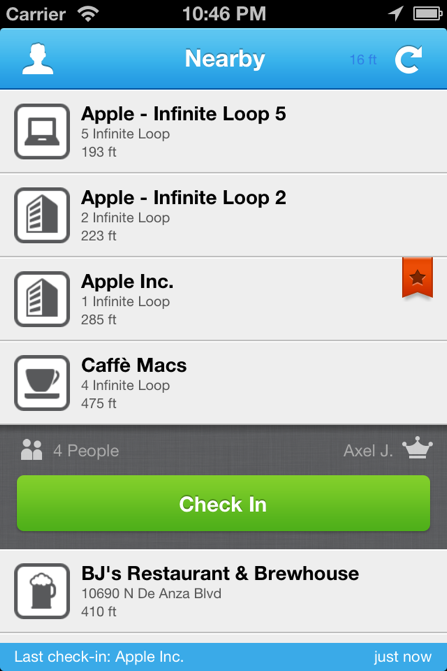
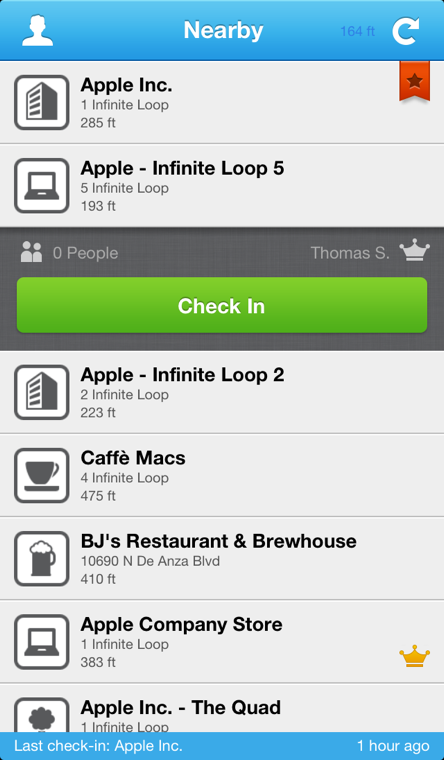
adding in iphone5 images

diff --git a/index.html b/index.html
@@ -22,16 +22,16 @@
         position:relative;
         margin-top:-140px;
         margin-left:10px;
-        width:282px;
-        height:521px;
-        background-image:url('img/screen.png');
+        width:275px;
+        height:571px;
+        background-image:url('img/screen5.png');
       }
       #screen {
         position:absolute;
-        top:90px;
-        left:24px;
-        width:224px;
-        height:336px;
+        top:100px;
+        left:27px;
+        width:222px;
+        height:380px;
       }
       #app-desc { min-height:410px; }
       #app-desc ul li { padding-bottom:10px; }
